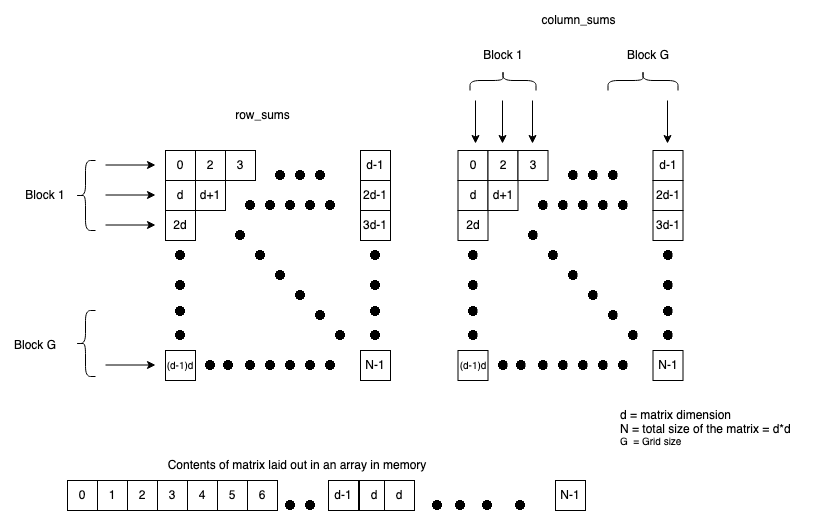
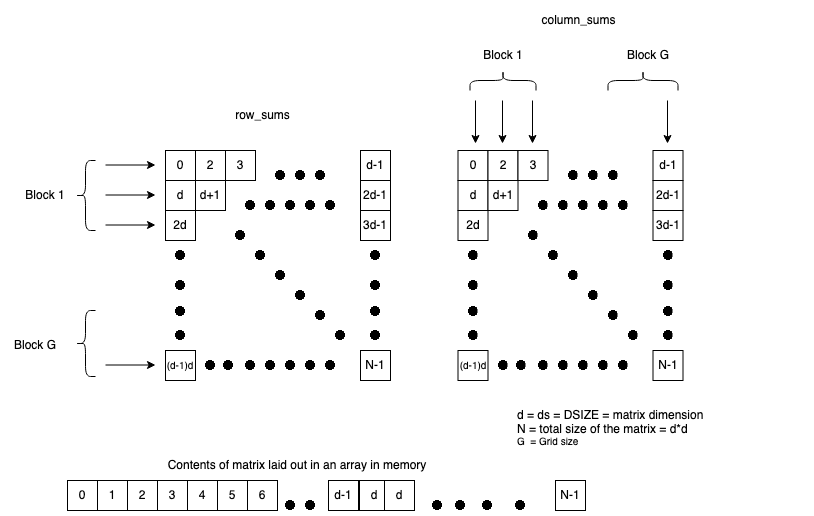
adding explanation for row sum kernel with LDS

Changed region(s): [[0.6143, 0.7752, 0.9828, 0.8682]]

diff --git a/1_sharedmemory/matrix_sums_optimized.cpp b/1_sharedmemory/matrix_sums_optimized.cpp
@@ -66,7 +66,8 @@ bool validate(float *data, size_t sz) {
     }
   return true;
 }
-intructuring your kernel bbb main() {
+
+int main() {
 
   float *h_A, *h_sums, *d_A, *d_sums;
   h_A = new float[DSIZE * DSIZE]; // allocate space for data in host memory

diff --git a/1_sharedmemory/README.md b/1_sharedmemory/README.md
@@ -1,6 +1,6 @@
 Tutorial for shared memory features for GPU
 
-## Memory Coalescing
+# Memory Coalescing
 (TODO: the developer.amd matrix transpose example isn't really a good example of memory
 coalescing as it looks like the number of write and read transactions is more or less the
 same between the naive and lds examples.)
@@ -15,7 +15,7 @@ structure your kernel code such that adjacent threads in a block access adjacent
 maximize use of the cache. This way of organizing your data access to take advantage of
 the cache and reduce the number of memory transactions is called _memory coalescing_.
 
-### How Effective is Memory Coalescing
+## How Effective is Memory Coalescing
 
 For example, let us take the `matrix_sums_unoptimized.cpp` code. Here we are creating a
 16384x16384 matrix and each element of the matrix is 1. In memory, we represent this
@@ -80,7 +80,7 @@ column. Each thread will step to the next value in the column, which is `ds` ite
 in the 1D array from the previous value in the column. 
 
 
-#### Building and running the code
+### Building and running the code
 
 Make sure you have access to a system with HIP installed with a ROCm or CUDA backend. Make
 sure you update the submit scripts with the project in the batch job directives and in the
@@ -108,7 +108,7 @@ sbatch submit_frontier_unoptimized.sbatch
 The submit scripts for Summit and Crusher run the executable with the nsys profiler and
 the rocprof profiler respectively.
 
-#### Examining the Results of the Kernel Profiling
+### Examining the Results of the Kernel Profiling
 
 From the output file of the Summit run, you will see a section titled `CUDA Kernel
 Statistics` with the table summarizing the run time of
@@ -134,11 +134,11 @@ memory into the cache along with some data that was adjacent to it because there
 reasonable assumption that if you need some data you will likely also need the data next
 to it. We can take advantage of this by making sure that threads that are adjacent to each
 other (i.e. threads in the same block or same wavefront even) make use data that is
-adjacent to each other. So for `column_sums`, when thread with `idx 0` accesses A[0], `idx
-1` accesses A[1], `idx 2` accesses A[2] and so on. Since A[1], A[2], A[3] are all adjacent
-to each other, they will all brought to the cache together, and we don't have to do
-separate memory lookups for getting the data for `idx 2` and `idx 3` which are executing
-in the same wavefront. This saves a lot of time.
+adjacent to each other. As you can see from the figure above, for `column_sums`, when
+thread with `idx 0` accesses A[0], `idx 1` accesses A[1], `idx 2` accesses A[2] and so
+on. Since A[1], A[2], A[3] are all adjacent to each other, they will all brought to the
+cache together, and we don't have to do separate memory lookups for getting the data for
+`idx 2` and `idx 3` which are executing in the same wavefront. This saves a lot of time.
 
 Contrast this with `row_sums`. When `idx 0` accesses A[0], `idx 1` is accessing `A[1*ds ==
 16384]`, `idx 2` is accessing `A[2*ds == 32768]` and so on. Since `idx` 0,1,2 are all in
@@ -150,30 +150,120 @@ is held up because each thread in the wavefront is effectively being serviced on
 time rather than all at once. So you can see how this can slow things down a lot. There is
 no _memory coalescing_ here.
 
-(TODO: draw a diagram to accompany the above explanation).
 
 (TODO: when rocprof timing information is fixed, add a section covering the rocprof output
 as well).
 
 
-(TODO: Try creating an example where you are summing the
-rows vs summing the columns of a matrix to show effect of memory coalescing)
 (TODO: show instructions on how to run the nvidia profiler on this for summit and the
 rocprof on crusher and show the performance differences).
 
 # GPU Shared Memory with HIP
 
-So how do we improve the performance of the sum of the rows. We can take advantage of GPU
+So how do we improve the performance of the sum of the rows. We can take advantage of
+block level
 shared memory to bring the data even closer to the threads to avoid all the memory
 transactions to the GPU memory.  (TODO: is the LDS on the
 CUs?). This shared memory is called Local Data Share or LDS. Each block can have a maximum
-of (TODO: size) kb of LDS. Let us look at a modified example of the row
+of (TODO: size) kb of LDS and this memory lives on (TODO: where?). This LDS is visible
+only within a block. If there are multiple blocks, each block will have its own LDS. Let us look at a modified example of the row
 sum kernel in `matrix_sums_optmized.cpp`. The `column_sums` kernel is unchanged but the
 `row_sums` kernel has been reworked  Whereas column sum is taking advantage of the
 cache locality, the row sum kernel will explicitly move the data into shared memory. 
 
+Let us break down the modified `row_sums` kernel. A thing to note is that is launch kernel
+call
+
+```
+hipLaunchKernelGGL(row_sums, dim3(DSIZE), dim3(block_size), 0, 0, d_A, d_sums, DSIZE);
+```
+
+We are actually starting `DSIZE` number of blocks, so we make use of a whole block of
+threads for each row in the matrix, unlike before where we start enough blocks such that
+we have one thread for each row instead of a whole block.
+
+```
+__global__ void row_sums(const float *A, float *sums, size_t ds) {
+
+  int idx = blockIdx.x; // our block index becomes our row indicator
+  if (idx < ds) {
+    __shared__ float sdata[block_size];
+    int tid = threadIdx.x;
+    sdata[tid] = 0.0f;
+    size_t tidx = tid;
+
+    while (tidx < ds) { // block stride loop to load data
+      sdata[tid] += A[idx * ds + tidx];
+      tidx += blockDim.x;
+    }
+
+    for (unsigned int s = blockDim.x / 2; s > 0; s >>= 1) {
+      __syncthreads();
+      if (tid < s) // parallel sweep reduction
+        sdata[tid] += sdata[tid + s];
+    }
+    if (tid == 0)
+      sums[idx] = sdata[0];
+  }
+}
+```
+
+We create the LDS with `__shared__ float sdata[block_size]` to create a float array in
+shared memory. In the while loop, each thread in the block will sum the numbers in the row
+starting from the location corresponding to its `threadIdx.x` and each next number that is
+`blockDim.x` distance away till it reaches the end of the row, and this sum is stored in
+the LDS array. Each block will then perform a _parallel sweep reduction_ on the LDS
+array. In the for loop, we will start with half the threads in the block, where each
+thread will sum the numbers at `tid` position and `tid+s` position where `s` is half the
+block size and `tid` is the thread ID. The sum for each thread is stored in the LDS array
+at `sdata[tid]`. In the next iteration, the `s` value is halved, so now only a quarter of
+the threads in the block are used to sum the numbers at `tid` and `tid+s`. This halving
+continues until `s` is 0 and `sdata[0]` will be the sum of all the numbers in `sdata` that
+was inserted during the earlier while loop, and thus it is the sum of all the numbers in
+the row that block was assigned to.
+
+(TODO: add diagram to explain the above)
+
+### Building and running the code
+
+This process should be familiar to you by now.
+
+
+Make sure you have access to a system with HIP installed with a ROCm or CUDA backend. Make
+sure you update the submit scripts with the project in the batch job directives and in the
+`OUTPUT` variable.
+
+For Summit, run the following commands
+```
+module load cuda/11.4.0
+module load hip-cuda/5.1.0
+hipcc -o matrix_sums_optimized matrix_sums_optimized.cpp
+
+# submit job
+bsub submit_summit_optimized.lsf
+```
+
+For Spock/Crusher
+```
+module load rocm/5.1.0
+hipcc -o matrix_sums_optimized matrix_sums_optimized.cpp
+
+# submit job
+sbatch submit_frontier_optimized.sbatch
+```
+
+The submit scripts for Summit and Crusher run the executable with the nsys profiler and
+the rocprof profiler respectively.
+
 (TODO: show how to run profiler on Summit and crusher and compare results with previous row sum run that didn't use
 shared memory)
+
+### Examining the Results of the Kernel Profiling
+
+From the output file of the Summit run, you will see a section titled `CUDA Kernel
+Statistics` with the table summarizing the run time of the two kernels. It will look
+something like this. 
+
 
 
 
